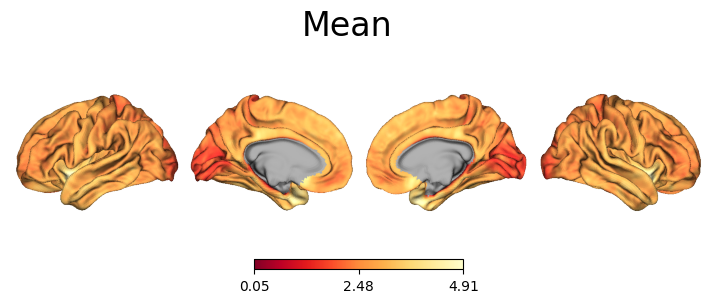
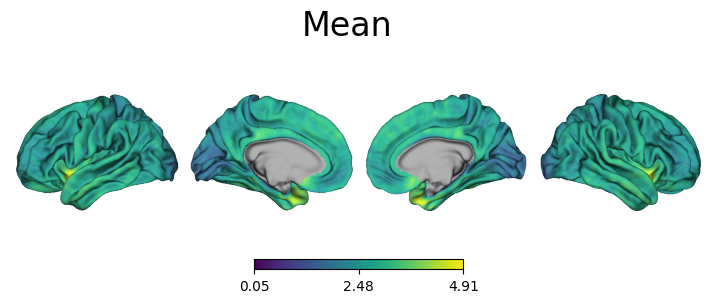
Work on figures.

Changed region(s): [[0.0, 0.297, 0.9819, 0.7129], [0.3375, 0.8317, 0.6444, 0.8911]]

diff --git a/analysis/plot_tedana_t2star.py b/analysis/plot_tedana_t2star.py
@@ -4,6 +4,7 @@ import os
 from glob import glob
 
 import matplotlib.pyplot as plt
+import numpy as np
 from nilearn import image, plotting
 
 
@@ -26,28 +27,31 @@ if __name__ == "__main__":
 
         # Plot mean and SD
         fig, axs = plt.subplots(2, 1, figsize=(10, 5))
+        vmax = np.percentile(mean_img.get_fdata(), 95)
         plotting.plot_stat_map(
             mean_img,
             display_mode="z",
             cut_coords=[-30, -15, 0, 15, 30, 45, 60],
-            title="Mean",
             axes=axs[0],
             figure=fig,
             symmetric_cbar=False,
             vmin=0,
-            vmax=150,
-            cmap="YlOrRd",
+            vmax=vmax,
+            cmap="viridis",
+            annotate=False,
         )
+        vmax = np.percentile(sd_img.get_fdata(), 95)
         plotting.plot_stat_map(
             sd_img,
             display_mode="z",
             cut_coords=[-30, -15, 0, 15, 30, 45, 60],
-            title="Standard Deviation",
             axes=axs[1],
             figure=fig,
             symmetric_cbar=False,
             vmin=0,
-            cmap="YlOrRd",
+            vmax=vmax,
+            cmap="viridis",
+            annotate=False,
         )
         fig.suptitle(title)
         fig.savefig(os.path.join(out_dir, f"{title.replace(' ', '_')}.png"), bbox_inches="tight")

diff --git a/analysis/plot_qsirecon_scalar_maps.py b/analysis/plot_qsirecon_scalar_maps.py
@@ -4,6 +4,7 @@ import os
 from glob import glob
 
 import matplotlib.pyplot as plt
+import numpy as np
 from nilearn import image, plotting
 
 
@@ -27,27 +28,31 @@ if __name__ == "__main__":
 
         # Plot mean and SD
         fig, axs = plt.subplots(2, 1, figsize=(10, 5))
+        vmax = np.percentile(mean_img.get_fdata(), 95)
         plotting.plot_stat_map(
             mean_img,
             display_mode="z",
             cut_coords=[-30, -15, 0, 15, 30, 45, 60],
-            title="Mean",
             axes=axs[0],
             figure=fig,
             symmetric_cbar=False,
             vmin=0,
-            cmap="YlOrRd",
+            vmax=vmax,
+            cmap="viridis",
+            annotate=False,
         )
+        vmax = np.percentile(sd_img.get_fdata(), 95)
         plotting.plot_stat_map(
             sd_img,
             display_mode="z",
             cut_coords=[-30, -15, 0, 15, 30, 45, 60],
-            title="Standard Deviation",
             axes=axs[1],
             figure=fig,
             symmetric_cbar=False,
             vmin=0,
-            cmap="YlOrRd",
+            vmax=vmax,
+            cmap="viridis",
+            annotate=False,
         )
         fig.suptitle(title)
         fig.savefig(os.path.join(out_dir, f"{title.replace(' ', '_')}.png"), bbox_inches="tight")

diff --git a/analysis/plot_aslprep_cbf.py b/analysis/plot_aslprep_cbf.py
@@ -4,6 +4,7 @@ import os
 from glob import glob
 
 import matplotlib.pyplot as plt
+import numpy as np
 from nilearn import image, plotting
 
 
@@ -33,24 +34,26 @@ if __name__ == "__main__":
             mean_img,
             display_mode="z",
             cut_coords=[-30, -15, 0, 15, 30, 45, 60],
-            title="Mean",
             axes=axs[0],
             figure=fig,
             symmetric_cbar=False,
             vmin=0,
             vmax=120,
-            cmap="YlOrRd",
+            cmap="viridis",
+            annotate=False,
         )
+        vmax = np.percentile(sd_img.get_fdata(), 95)
         plotting.plot_stat_map(
             sd_img,
             display_mode="z",
             cut_coords=[-30, -15, 0, 15, 30, 45, 60],
-            title="Standard Deviation",
             axes=axs[1],
             figure=fig,
             symmetric_cbar=False,
             vmin=0,
-            cmap="YlOrRd",
+            vmax=vmax,
+            cmap="viridis",
+            annotate=False,
         )
         fig.suptitle(title)
         fig.savefig(os.path.join(out_dir, f"{title.replace(' ', '_')}.png"), bbox_inches="tight")

diff --git a/analysis/plot_fmriprep_anats.py b/analysis/plot_fmriprep_anats.py
@@ -74,7 +74,7 @@ def plot_surface(name, measure, files):
     p = Plot(lh, rh, size=(800, 200), zoom=1.2, layout="row", mirror_views=True)
     p.add_layer(
         {"left": np.squeeze(lh_data), "right": np.squeeze(rh_data)},
-        cmap="YlOrRd_r",
+        cmap="viridis",
     )
     fig = p.build()
     fig.suptitle(measure, fontsize=24)
